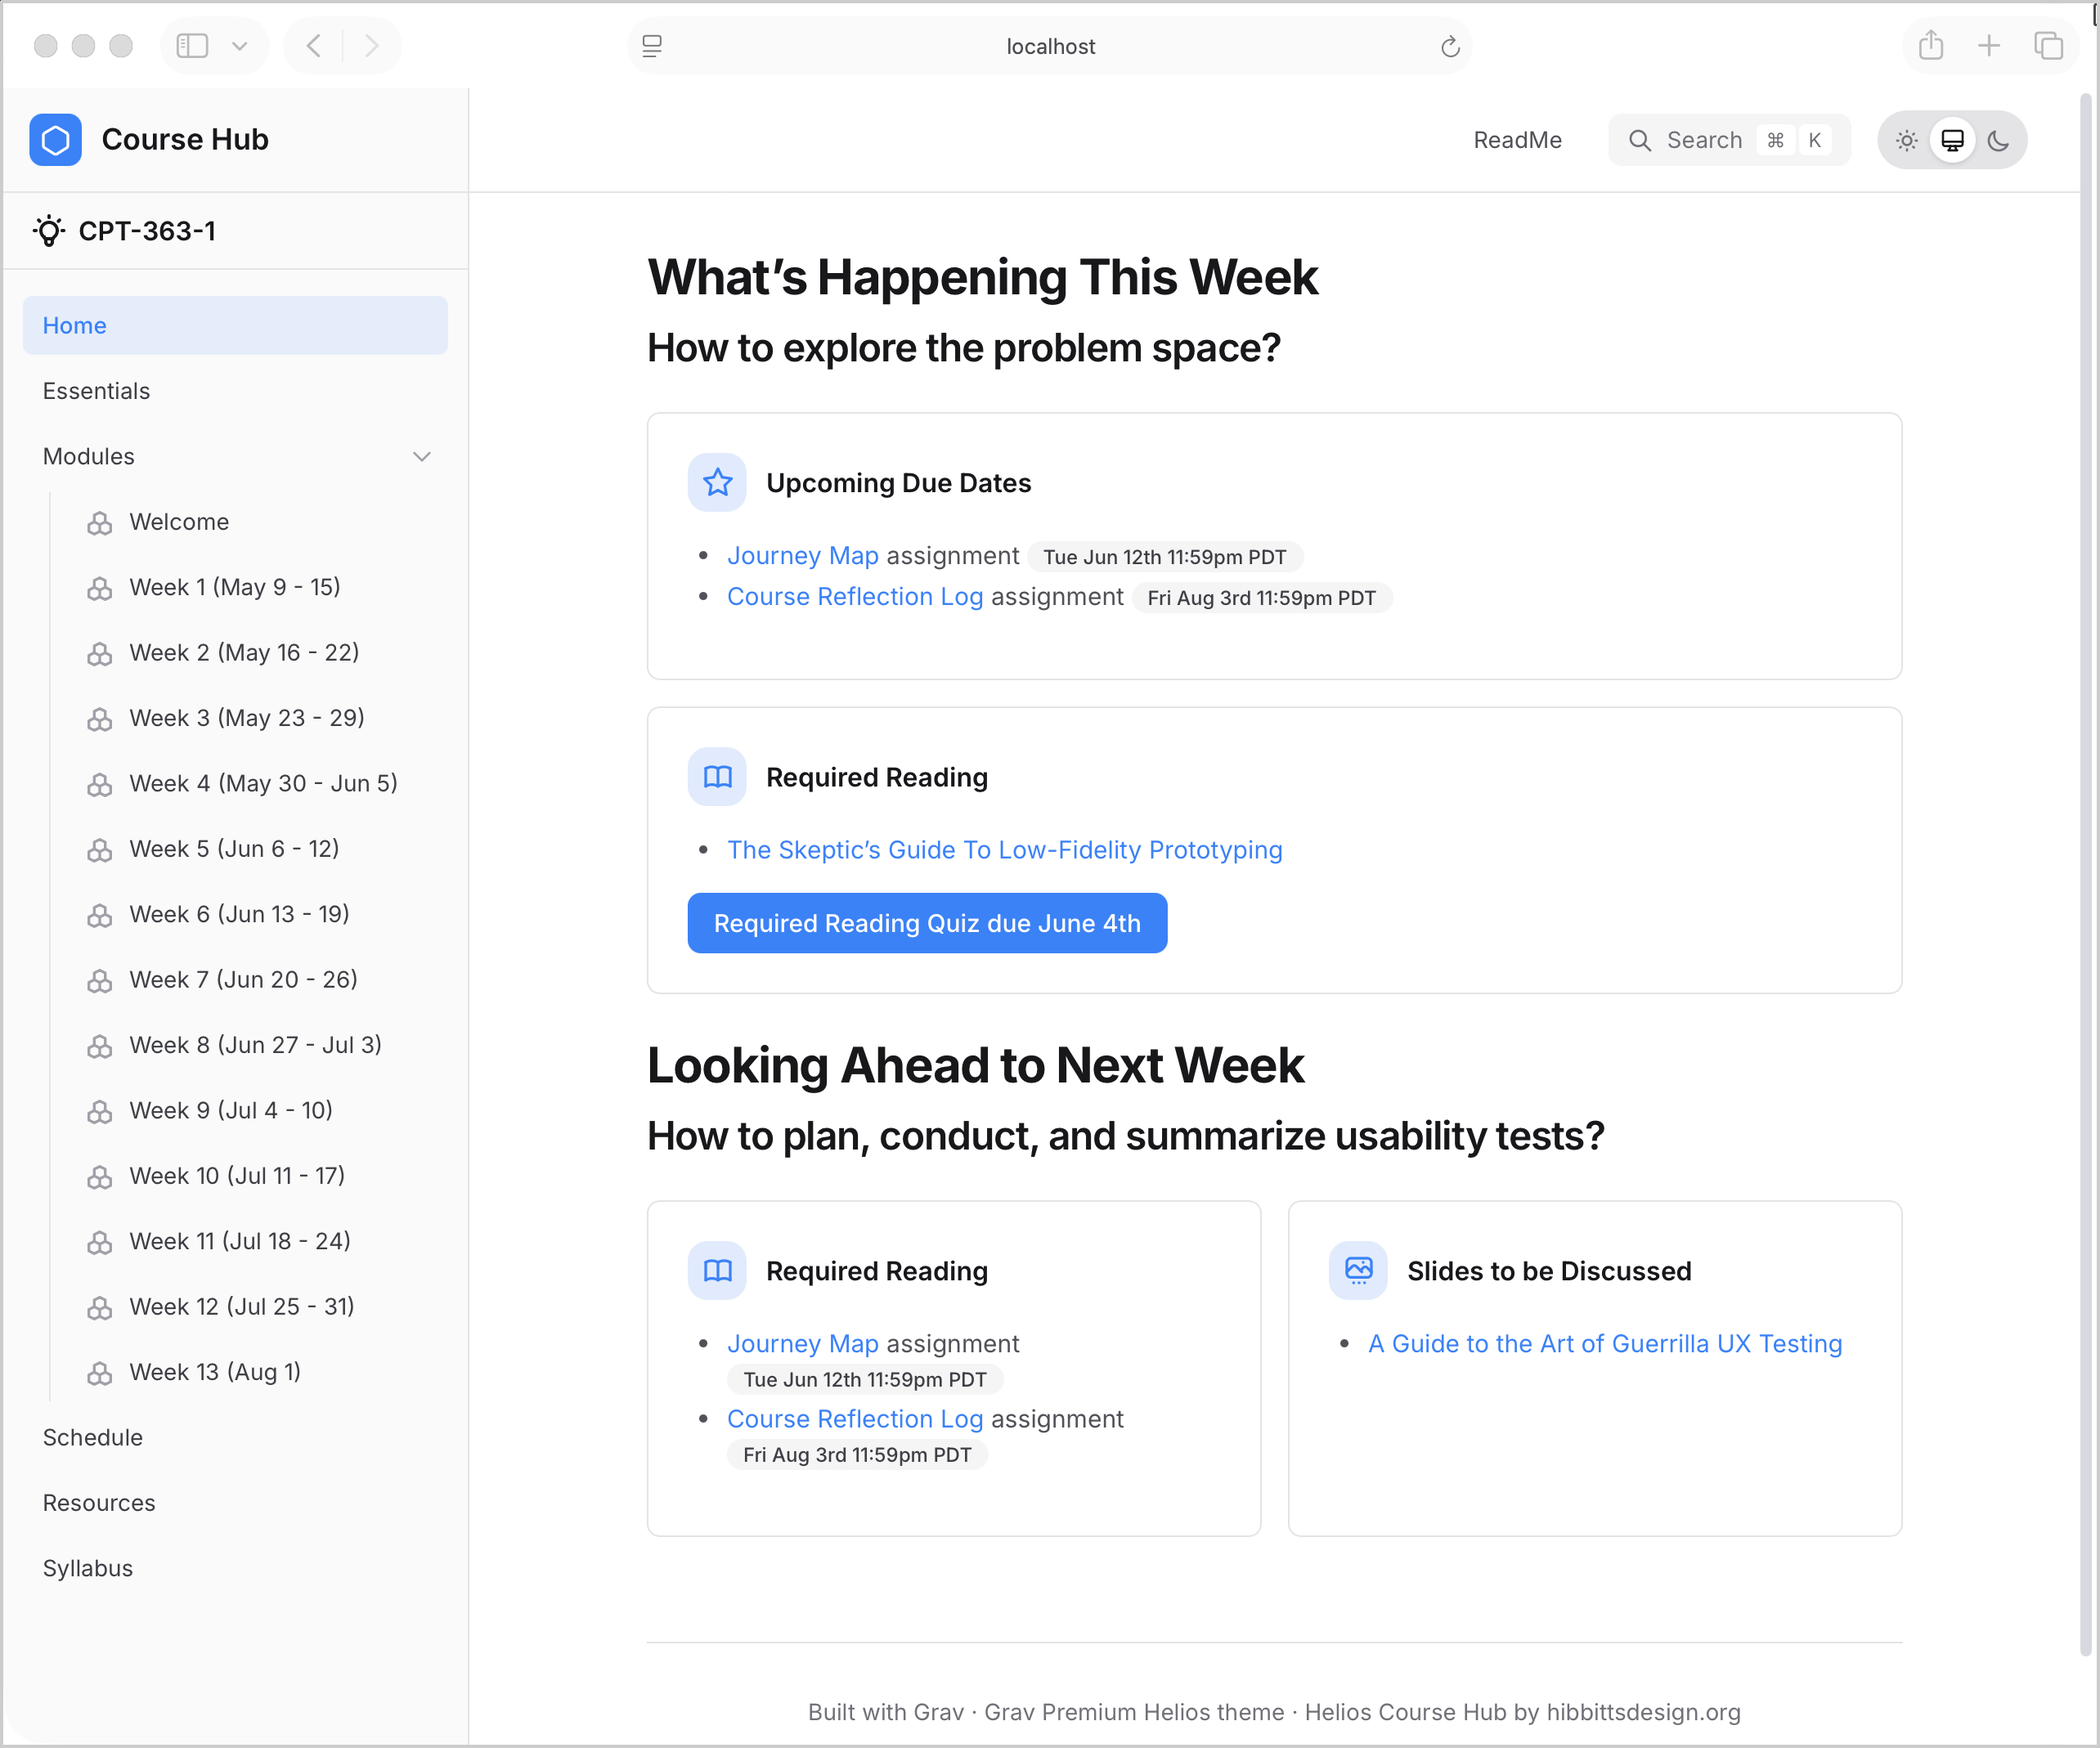
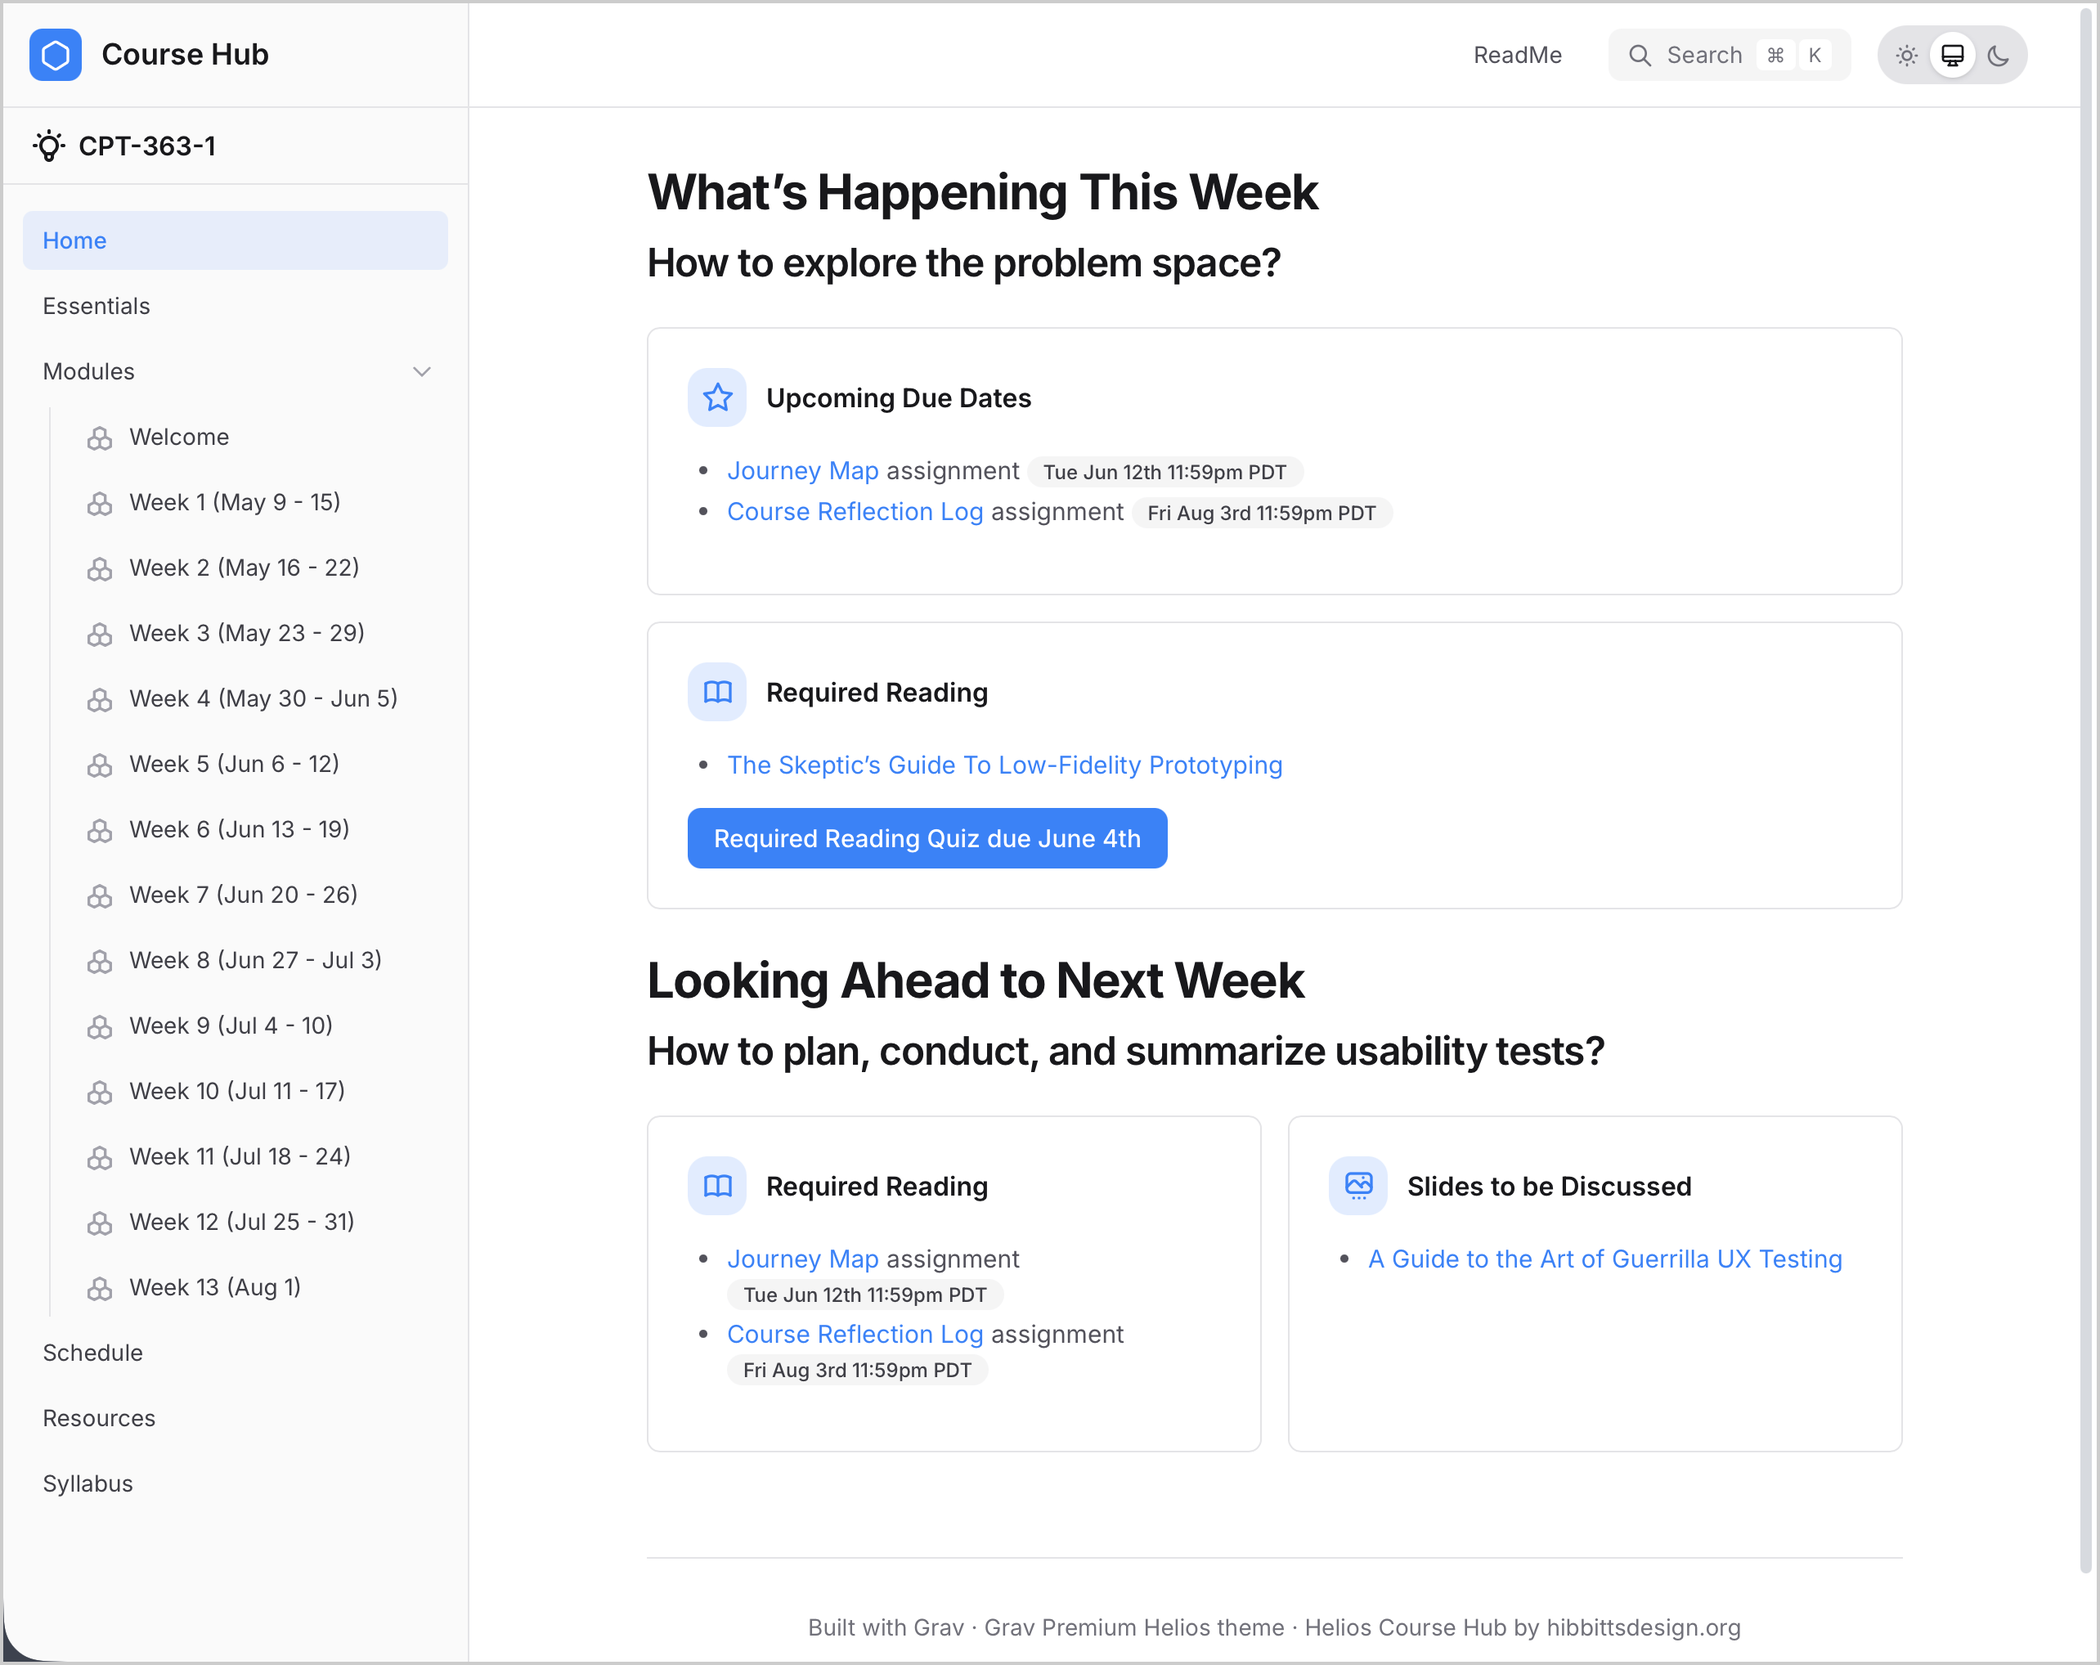
Include dark-mode screenshots.

diff --git a/README.md b/README.md
@@ -7,7 +7,17 @@ Helios Course Hub is the successor to the original [Open Course Hub](https://git
 ## Screenshots
 
 <p float="left">
-  <a href="https://demo.hibbittsdesign.org/grav-helios-multi-course-hub/"><img alt="Grav Helios Course Hub, course list page" src="https://raw.githubusercontent.com/hibbitts-design/grav-skeleton-helios-course-hub/refs/heads/main/screenshot-1.png" width="49%"></a>&nbsp;<a href="https://demo.hibbittsdesign.org/grav-helios-multi-course-hub/cpt-363-1/home"><img alt="Grav Helios Course Hub, course page" src="https://raw.githubusercontent.com/hibbitts-design/grav-skeleton-helios-course-hub/refs/heads/main/screenshot-2.png" width="49%"></a>
+  <a href="https://demo.hibbittsdesign.org/grav-helios-multi-course-hub/">
+    <picture>
+      <source media="(prefers-color-scheme: dark)" srcset="https://raw.githubusercontent.com/hibbitts-design/grav-skeleton-helios-course-hub/refs/heads/main/screenshot-1-dark.png">
+      <img alt="Grav Helios Course Hub, course list page" src="https://raw.githubusercontent.com/hibbitts-design/grav-skeleton-helios-course-hub/refs/heads/main/screenshot-1.png" width="49%">
+    </picture>
+  </a>&nbsp;<a href="https://demo.hibbittsdesign.org/grav-helios-multi-course-hub/cpt-363-1/home">
+    <picture>
+      <source media="(prefers-color-scheme: dark)" srcset="https://raw.githubusercontent.com/hibbitts-design/grav-skeleton-helios-course-hub/refs/heads/main/screenshot-2-dark.png">
+      <img alt="Grav Helios Course Hub, course page" src="https://raw.githubusercontent.com/hibbitts-design/grav-skeleton-helios-course-hub/refs/heads/main/screenshot-2.png" width="49%">
+    </picture>
+  </a>
 </p>
 
 ## When is Grav Helios Course Hub a Good Candidate?
